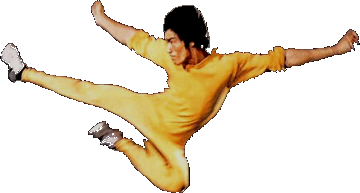
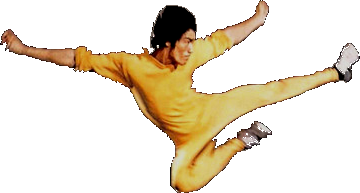
BL6.5 flying kick 1 + params

diff --git a/examples/bruce-lee/main.go b/examples/bruce-lee/main.go
@@ -5,6 +5,7 @@ import (
 	"image"
 	_ "image/jpeg"
 	"time"
+	"flag"
 	"log"
 	"os"
 	"runtime"
@@ -47,7 +48,7 @@ const (
     stage3Timeout = 24000 + stage2Timeout
     stage4Timeout = 35000 + stage3Timeout
 
-    final = stage4Timeout
+    final = stage4Timeout + 23000
 
     stage2MusicPath = "audio/Boards dont hit back.wav"
     stage3MusicPath = "audio/BruceLee.wav"
@@ -57,7 +58,6 @@ const (
 )
 
 func init() {
-    startTime = time.Now()
 
     shiftX = 0
     shiftY = 0
@@ -179,11 +179,29 @@ func (g *Game) Layout(outsideWidth, outsideHeight int) (int, int) {
 }
 
 func main() {
+    startTime = time.Now()
+
+    analyzeArguments()
+
     ebiten.SetFullscreen(true)
-	ebiten.SetWindowTitle("Fullscreen (Ebitengine Demo)")
+	ebiten.SetWindowTitle("BRUCE LEE TRIBUTE")
 	if err := ebiten.RunGame(&Game{}); err != nil {
 		log.Fatal(err)
 	}
+}
+
+func analyzeArguments(){
+    name := flag.String("stage", "1", "a number of stage to start with")
+    flag.Parse()
+    stage := string(*name)
+    switch(stage){
+        case "2":
+            counter = stage1Timeout
+        case "3":
+            counter = stage2Timeout
+        case "4":
+            counter = stage3Timeout
+    }
 }
 
 func drawBackgroundScaled(screen, bg *ebiten.Image, x, y, w, h int, scale float64) {

diff --git a/examples/bruce-lee/stage4.go b/examples/bruce-lee/stage4.go
@@ -60,7 +60,7 @@ func initStage4(){
     extraDelay = 0
     bigPicY = 2500
     shiftX4 = 0
-    bruceleePosition = 1700
+    bruceleePosition = -20
 }
 
 func stage4(screen *ebiten.Image, counter float64){
@@ -71,9 +71,11 @@ func stage4(screen *ebiten.Image, counter float64){
     }
 
     if (counter > (30000 + stage3Timeout)){
-        bruceleePosition -=1
+        bruceleePosition +=2
 
-        drawBackgroundScaled(screen, flyingKickPic, bruceleePosition, 0, 360, 200, float64(1))
+        op := &ebiten.DrawImageOptions{}
+        op.GeoM.Translate(float64(bruceleePosition), float64(350))
+        screen.DrawImage(flyingKickPic, op)
         drawBackgroundScaled(screen, c64Pic, 0, 0, 1200, 722, float64(1))
     } else if (counter > (25000 + stage3Timeout)){
         bigPicY += 2
